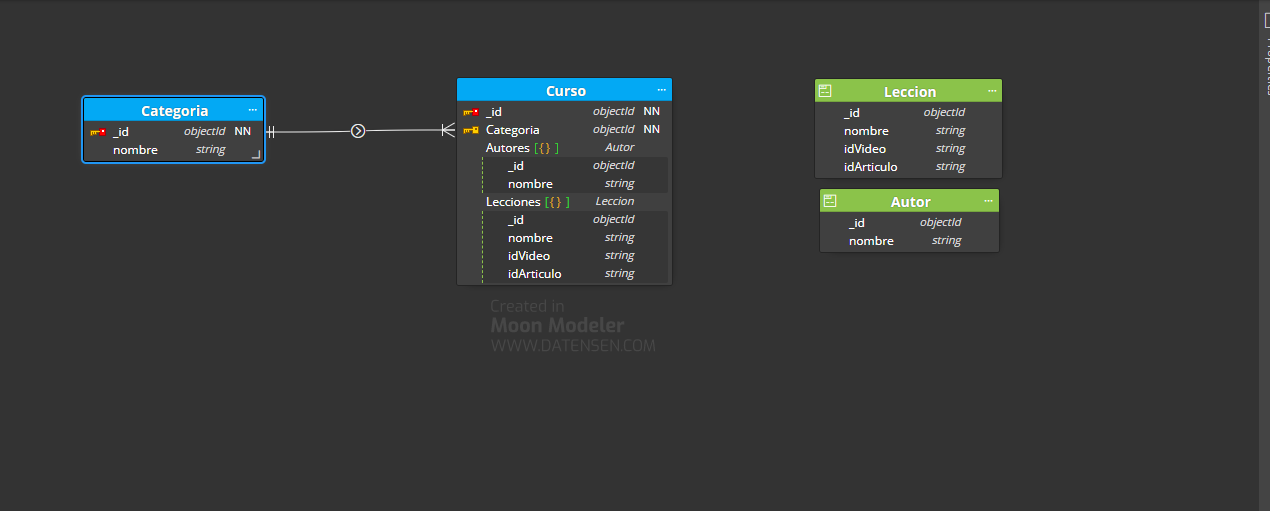
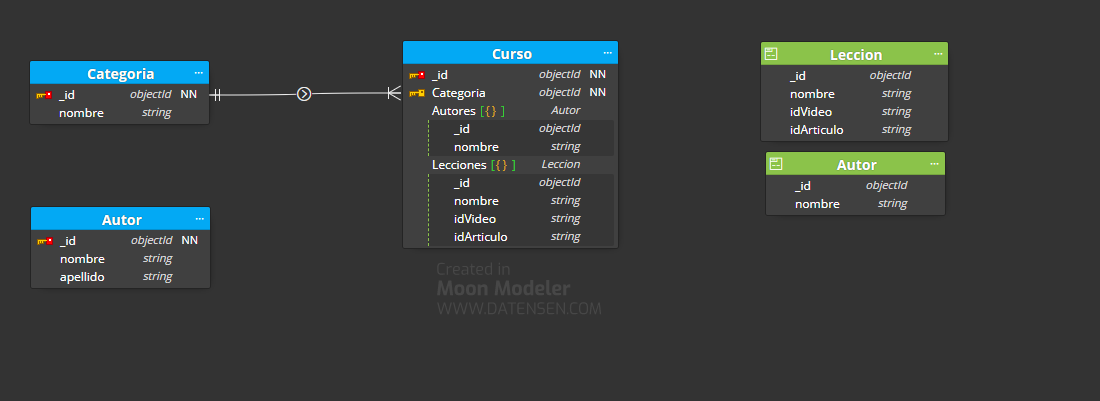
last update

diff --git a/modelado.md b/modelado.md
@@ -10,9 +10,9 @@ He creado dos documentos, el de ***Lección*** y el de ***Autor***. Al de **Lecc
 
 Para la **collection Curso**, le he pasado la **collection  Categoría** en una relación de  uno a muchos, le he añadido como campos un array de Autores(que es un array del *document Autor*) y un array de Lecciones(que es un array de *document Lección*).
 
+Y por último he creado una **collection** de nombre **Autor** pasándole como campos un id de tipo objectid, el nombre del autor tipo string y el apellido también tipo string.
 
-
-En definitiva quedaría así:
+En definitiva el modelado quedaría así:
 
 
 
